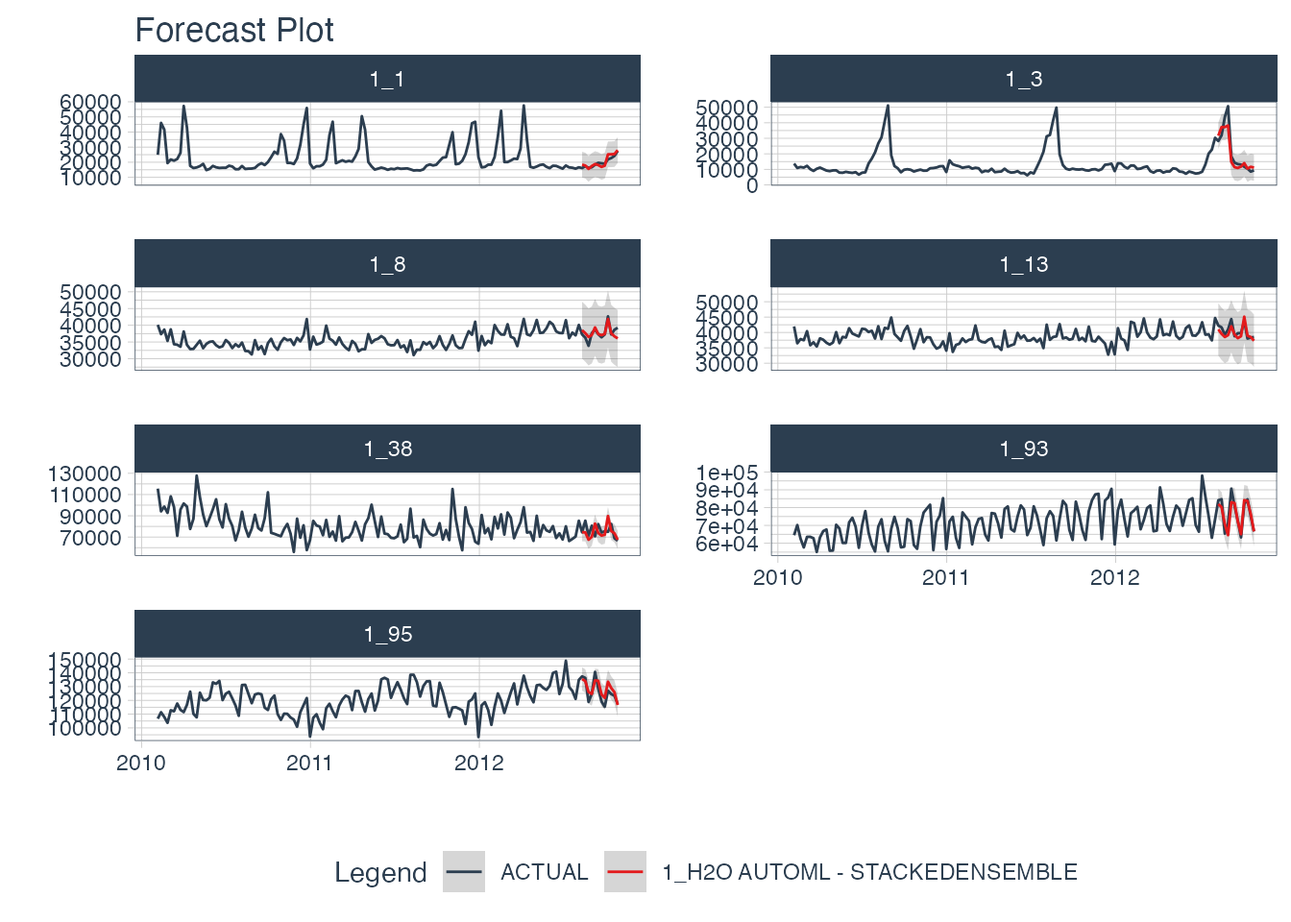
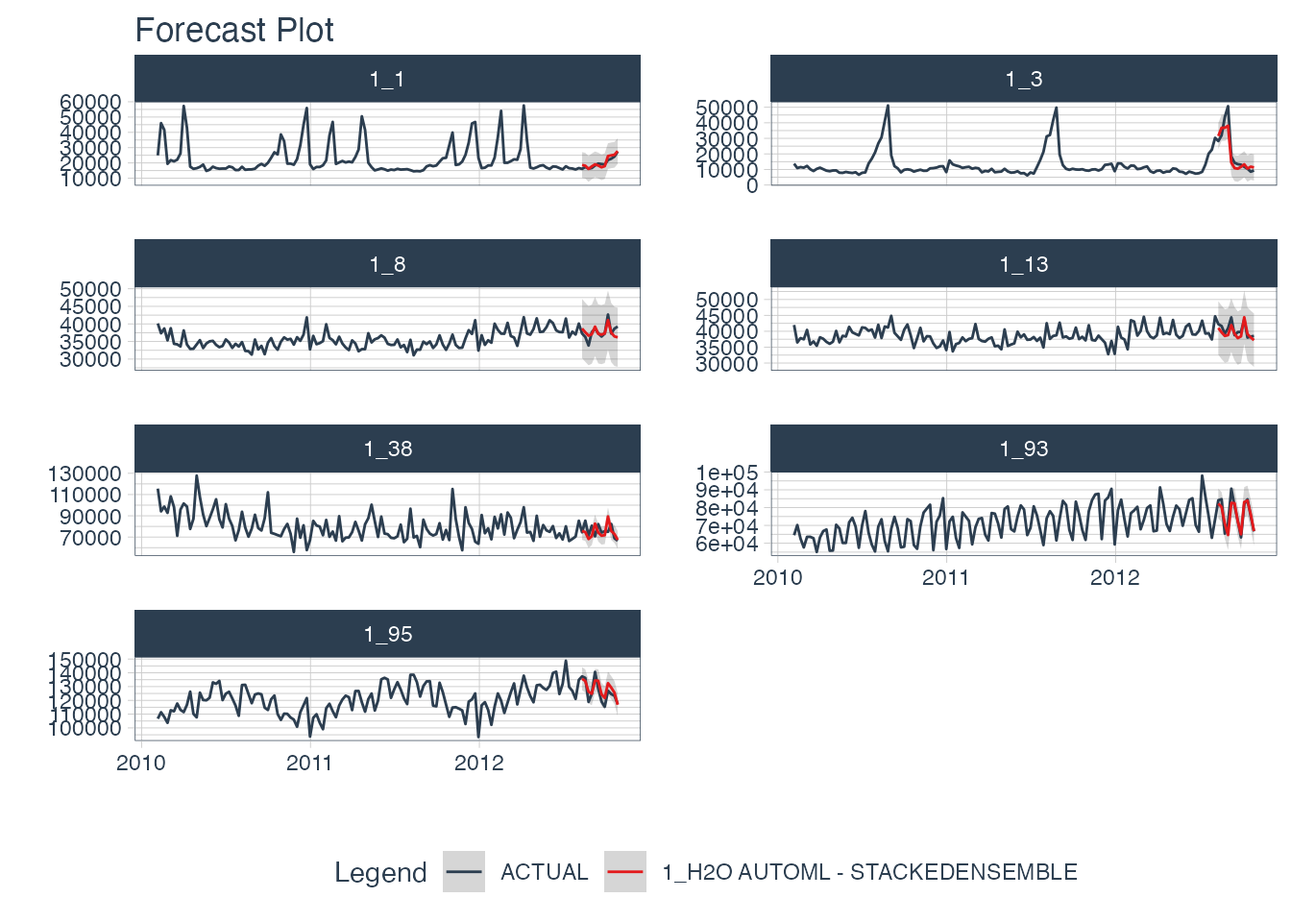
version 0.1.0 - initial release

diff --git a/docs/articles/getting-started.html b/docs/articles/getting-started.html
@@ -44,7 +44,7 @@
       </button>
       <span class="navbar-brand">
         <a class="navbar-link" href="../index.html">modeltime.h2o</a>
-        <span class="version label label-default" data-toggle="tooltip" data-placement="bottom" title="Released version">0.0.0.9000</span>
+        <span class="version label label-default" data-toggle="tooltip" data-placement="bottom" title="Released version">0.1.0</span>
       </span>
     </div>
 
@@ -166,7 +166,7 @@
 <span class="co">#&gt;  Connection successful!</span>
 <span class="co">#&gt; </span>
 <span class="co">#&gt; R is connected to the H2O cluster: </span>
-<span class="co">#&gt;     H2O cluster uptime:         10 hours 57 minutes </span>
+<span class="co">#&gt;     H2O cluster uptime:         11 hours 3 minutes </span>
 <span class="co">#&gt;     H2O cluster timezone:       America/New_York </span>
 <span class="co">#&gt;     H2O data parsing timezone:  UTC </span>
 <span class="co">#&gt;     H2O cluster version:        3.32.0.1 </span>
@@ -224,7 +224,7 @@
 <span id="cb6-11"><a href="#cb6-11" aria-hidden="true" tabindex="-1"></a>  <span class="sc">|</span>                                                                            </span>
 <span id="cb6-12"><a href="#cb6-12" aria-hidden="true" tabindex="-1"></a>  <span class="er">|==============</span>                                                        <span class="er">|</span>  <span class="dv">20</span>%</span>
 <span id="cb6-13"><a href="#cb6-13" aria-hidden="true" tabindex="-1"></a>  <span class="sc">|</span>                                                                            </span>
-<span id="cb6-14"><a href="#cb6-14" aria-hidden="true" tabindex="-1"></a>  <span class="er">|============================</span>                                          <span class="er">|</span>  <span class="dv">40</span>%</span>
+<span id="cb6-14"><a href="#cb6-14" aria-hidden="true" tabindex="-1"></a>  <span class="er">|============================</span>                                          <span class="er">|</span>  <span class="dv">41</span>%</span>
 <span id="cb6-15"><a href="#cb6-15" aria-hidden="true" tabindex="-1"></a>  <span class="sc">|</span>                                                                            </span>
 <span id="cb6-16"><a href="#cb6-16" aria-hidden="true" tabindex="-1"></a>  <span class="er">|===========================================</span>                           <span class="er">|</span>  <span class="dv">61</span>%</span>
 <span id="cb6-17"><a href="#cb6-17" aria-hidden="true" tabindex="-1"></a>  <span class="sc">|</span>                                                                            </span>
@@ -235,15 +235,15 @@
 <span id="cb6-22"><a href="#cb6-22" aria-hidden="true" tabindex="-1"></a>  <span class="sc">|</span>                                                                            </span>
 <span id="cb6-23"><a href="#cb6-23" aria-hidden="true" tabindex="-1"></a>  <span class="er">|======================================================================|</span> <span class="dv">100</span>%</span>
 <span id="cb6-24"><a href="#cb6-24" aria-hidden="true" tabindex="-1"></a><span class="co">#&gt;                                           model_id mean_residual_deviance</span></span>
-<span id="cb6-25"><a href="#cb6-25" aria-hidden="true" tabindex="-1"></a><span class="co">#&gt; 1 StackedEnsemble_AllModels_AutoML_20210312_214830               35860665</span></span>
-<span id="cb6-26"><a href="#cb6-26" aria-hidden="true" tabindex="-1"></a><span class="co">#&gt; 2                 XGBoost_3_AutoML_20210312_214830               37508890</span></span>
-<span id="cb6-27"><a href="#cb6-27" aria-hidden="true" tabindex="-1"></a><span class="co">#&gt; 3                 XGBoost_2_AutoML_20210312_214830               39132256</span></span>
-<span id="cb6-28"><a href="#cb6-28" aria-hidden="true" tabindex="-1"></a><span class="co">#&gt; 4                 XGBoost_1_AutoML_20210312_214830               40070530</span></span>
+<span id="cb6-25"><a href="#cb6-25" aria-hidden="true" tabindex="-1"></a><span class="co">#&gt; 1 StackedEnsemble_AllModels_AutoML_20210312_215441               36261803</span></span>
+<span id="cb6-26"><a href="#cb6-26" aria-hidden="true" tabindex="-1"></a><span class="co">#&gt; 2                 XGBoost_3_AutoML_20210312_215441               37999356</span></span>
+<span id="cb6-27"><a href="#cb6-27" aria-hidden="true" tabindex="-1"></a><span class="co">#&gt; 3                 XGBoost_2_AutoML_20210312_215441               39161879</span></span>
+<span id="cb6-28"><a href="#cb6-28" aria-hidden="true" tabindex="-1"></a><span class="co">#&gt; 4                 XGBoost_1_AutoML_20210312_215441               40459569</span></span>
 <span id="cb6-29"><a href="#cb6-29" aria-hidden="true" tabindex="-1"></a><span class="co">#&gt;       rmse      mse      mae     rmsle</span></span>
-<span id="cb6-30"><a href="#cb6-30" aria-hidden="true" tabindex="-1"></a><span class="co">#&gt; 1 5988.377 35860665 3661.381 0.1464513</span></span>
-<span id="cb6-31"><a href="#cb6-31" aria-hidden="true" tabindex="-1"></a><span class="co">#&gt; 2 6124.450 37508890 3738.323 0.1482414</span></span>
-<span id="cb6-32"><a href="#cb6-32" aria-hidden="true" tabindex="-1"></a><span class="co">#&gt; 3 6255.578 39132256 3974.489 0.1635590</span></span>
-<span id="cb6-33"><a href="#cb6-33" aria-hidden="true" tabindex="-1"></a><span class="co">#&gt; 4 6330.129 40070530 4150.696 0.1711788</span></span>
+<span id="cb6-30"><a href="#cb6-30" aria-hidden="true" tabindex="-1"></a><span class="co">#&gt; 1 6021.777 36261803 3674.648 0.1464836</span></span>
+<span id="cb6-31"><a href="#cb6-31" aria-hidden="true" tabindex="-1"></a><span class="co">#&gt; 2 6164.362 37999356 3765.700 0.1492987</span></span>
+<span id="cb6-32"><a href="#cb6-32" aria-hidden="true" tabindex="-1"></a><span class="co">#&gt; 3 6257.945 39161879 3971.226 0.1626469</span></span>
+<span id="cb6-33"><a href="#cb6-33" aria-hidden="true" tabindex="-1"></a><span class="co">#&gt; 4 6360.784 40459569 4170.221 0.1694005</span></span>
 <span id="cb6-34"><a href="#cb6-34" aria-hidden="true" tabindex="-1"></a><span class="co">#&gt; </span></span>
 <span id="cb6-35"><a href="#cb6-35" aria-hidden="true" tabindex="-1"></a><span class="co">#&gt; [4 rows x 6 columns]</span></span>
 <span id="cb6-36"><a href="#cb6-36" aria-hidden="true" tabindex="-1"></a></span>
@@ -258,7 +258,7 @@
 <span id="cb6-45"><a href="#cb6-45" aria-hidden="true" tabindex="-1"></a><span class="co">#&gt; ==============</span></span>
 <span id="cb6-46"><a href="#cb6-46" aria-hidden="true" tabindex="-1"></a><span class="co">#&gt; </span></span>
 <span id="cb6-47"><a href="#cb6-47" aria-hidden="true" tabindex="-1"></a><span class="co">#&gt; H2ORegressionModel: stackedensemble</span></span>
-<span id="cb6-48"><a href="#cb6-48" aria-hidden="true" tabindex="-1"></a><span class="co">#&gt; Model ID:  StackedEnsemble_AllModels_AutoML_20210312_214830 </span></span>
+<span id="cb6-48"><a href="#cb6-48" aria-hidden="true" tabindex="-1"></a><span class="co">#&gt; Model ID:  StackedEnsemble_AllModels_AutoML_20210312_215441 </span></span>
 <span id="cb6-49"><a href="#cb6-49" aria-hidden="true" tabindex="-1"></a><span class="co">#&gt; Number of Base Models: 3</span></span>
 <span id="cb6-50"><a href="#cb6-50" aria-hidden="true" tabindex="-1"></a><span class="co">#&gt; </span></span>
 <span id="cb6-51"><a href="#cb6-51" aria-hidden="true" tabindex="-1"></a><span class="co">#&gt; Base Models (count by algorithm type):</span></span>
@@ -279,11 +279,11 @@
 <span id="cb6-66"><a href="#cb6-66" aria-hidden="true" tabindex="-1"></a><span class="co">#&gt; H2ORegressionMetrics: stackedensemble</span></span>
 <span id="cb6-67"><a href="#cb6-67" aria-hidden="true" tabindex="-1"></a><span class="co">#&gt; ** Reported on training data. **</span></span>
 <span id="cb6-68"><a href="#cb6-68" aria-hidden="true" tabindex="-1"></a><span class="co">#&gt; </span></span>
-<span id="cb6-69"><a href="#cb6-69" aria-hidden="true" tabindex="-1"></a><span class="co">#&gt; MSE:  10594894</span></span>
-<span id="cb6-70"><a href="#cb6-70" aria-hidden="true" tabindex="-1"></a><span class="co">#&gt; RMSE:  3254.98</span></span>
-<span id="cb6-71"><a href="#cb6-71" aria-hidden="true" tabindex="-1"></a><span class="co">#&gt; MAE:  2098.352</span></span>
-<span id="cb6-72"><a href="#cb6-72" aria-hidden="true" tabindex="-1"></a><span class="co">#&gt; RMSLE:  0.07938007</span></span>
-<span id="cb6-73"><a href="#cb6-73" aria-hidden="true" tabindex="-1"></a><span class="co">#&gt; Mean Residual Deviance :  10594894</span></span>
+<span id="cb6-69"><a href="#cb6-69" aria-hidden="true" tabindex="-1"></a><span class="co">#&gt; MSE:  11735662</span></span>
+<span id="cb6-70"><a href="#cb6-70" aria-hidden="true" tabindex="-1"></a><span class="co">#&gt; RMSE:  3425.735</span></span>
+<span id="cb6-71"><a href="#cb6-71" aria-hidden="true" tabindex="-1"></a><span class="co">#&gt; MAE:  2172.112</span></span>
+<span id="cb6-72"><a href="#cb6-72" aria-hidden="true" tabindex="-1"></a><span class="co">#&gt; RMSLE:  0.07982976</span></span>
+<span id="cb6-73"><a href="#cb6-73" aria-hidden="true" tabindex="-1"></a><span class="co">#&gt; Mean Residual Deviance :  11735662</span></span>
 <span id="cb6-74"><a href="#cb6-74" aria-hidden="true" tabindex="-1"></a><span class="co">#&gt; </span></span>
 <span id="cb6-75"><a href="#cb6-75" aria-hidden="true" tabindex="-1"></a><span class="co">#&gt; </span></span>
 <span id="cb6-76"><a href="#cb6-76" aria-hidden="true" tabindex="-1"></a><span class="co">#&gt; </span></span>
@@ -291,11 +291,11 @@
 <span id="cb6-78"><a href="#cb6-78" aria-hidden="true" tabindex="-1"></a><span class="co">#&gt; ** Reported on cross-validation data. **</span></span>
 <span id="cb6-79"><a href="#cb6-79" aria-hidden="true" tabindex="-1"></a><span class="co">#&gt; ** 5-fold cross-validation on training data (Metrics computed for combined holdout predictions) **</span></span>
 <span id="cb6-80"><a href="#cb6-80" aria-hidden="true" tabindex="-1"></a><span class="co">#&gt; </span></span>
-<span id="cb6-81"><a href="#cb6-81" aria-hidden="true" tabindex="-1"></a><span class="co">#&gt; MSE:  35860665</span></span>
-<span id="cb6-82"><a href="#cb6-82" aria-hidden="true" tabindex="-1"></a><span class="co">#&gt; RMSE:  5988.377</span></span>
-<span id="cb6-83"><a href="#cb6-83" aria-hidden="true" tabindex="-1"></a><span class="co">#&gt; MAE:  3661.381</span></span>
-<span id="cb6-84"><a href="#cb6-84" aria-hidden="true" tabindex="-1"></a><span class="co">#&gt; RMSLE:  0.1464513</span></span>
-<span id="cb6-85"><a href="#cb6-85" aria-hidden="true" tabindex="-1"></a><span class="co">#&gt; Mean Residual Deviance :  35860665</span></span></code></pre></div>
+<span id="cb6-81"><a href="#cb6-81" aria-hidden="true" tabindex="-1"></a><span class="co">#&gt; MSE:  36261803</span></span>
+<span id="cb6-82"><a href="#cb6-82" aria-hidden="true" tabindex="-1"></a><span class="co">#&gt; RMSE:  6021.777</span></span>
+<span id="cb6-83"><a href="#cb6-83" aria-hidden="true" tabindex="-1"></a><span class="co">#&gt; MAE:  3674.648</span></span>
+<span id="cb6-84"><a href="#cb6-84" aria-hidden="true" tabindex="-1"></a><span class="co">#&gt; RMSLE:  0.1464836</span></span>
+<span id="cb6-85"><a href="#cb6-85" aria-hidden="true" tabindex="-1"></a><span class="co">#&gt; Mean Residual Deviance :  36261803</span></span></code></pre></div>
 <p>Finally, we predict on the test dataset:</p>
 <div class="sourceCode" id="cb7"><pre class="sourceCode r"><code class="sourceCode r"><span id="cb7-1"><a href="#cb7-1" aria-hidden="true" tabindex="-1"></a><span class="fu">predict</span>(model_fitted, test_tbl)</span>
 <span id="cb7-2"><a href="#cb7-2" aria-hidden="true" tabindex="-1"></a><span class="co">#&gt; </span></span>
@@ -311,16 +311,16 @@
 <span id="cb7-12"><a href="#cb7-12" aria-hidden="true" tabindex="-1"></a><span class="co">#&gt; # A tibble: 84 x 1</span></span>
 <span id="cb7-13"><a href="#cb7-13" aria-hidden="true" tabindex="-1"></a><span class="co">#&gt;      .pred</span></span>
 <span id="cb7-14"><a href="#cb7-14" aria-hidden="true" tabindex="-1"></a><span class="co">#&gt;      &lt;dbl&gt;</span></span>
-<span id="cb7-15"><a href="#cb7-15" aria-hidden="true" tabindex="-1"></a><span class="co">#&gt;  1  18395.</span></span>
-<span id="cb7-16"><a href="#cb7-16" aria-hidden="true" tabindex="-1"></a><span class="co">#&gt;  2  31670.</span></span>
-<span id="cb7-17"><a href="#cb7-17" aria-hidden="true" tabindex="-1"></a><span class="co">#&gt;  3  38529.</span></span>
-<span id="cb7-18"><a href="#cb7-18" aria-hidden="true" tabindex="-1"></a><span class="co">#&gt;  4  40995.</span></span>
-<span id="cb7-19"><a href="#cb7-19" aria-hidden="true" tabindex="-1"></a><span class="co">#&gt;  5  74527.</span></span>
-<span id="cb7-20"><a href="#cb7-20" aria-hidden="true" tabindex="-1"></a><span class="co">#&gt;  6  81982.</span></span>
-<span id="cb7-21"><a href="#cb7-21" aria-hidden="true" tabindex="-1"></a><span class="co">#&gt;  7 135503.</span></span>
-<span id="cb7-22"><a href="#cb7-22" aria-hidden="true" tabindex="-1"></a><span class="co">#&gt;  8  17799.</span></span>
-<span id="cb7-23"><a href="#cb7-23" aria-hidden="true" tabindex="-1"></a><span class="co">#&gt;  9  37233.</span></span>
-<span id="cb7-24"><a href="#cb7-24" aria-hidden="true" tabindex="-1"></a><span class="co">#&gt; 10  37629.</span></span>
+<span id="cb7-15"><a href="#cb7-15" aria-hidden="true" tabindex="-1"></a><span class="co">#&gt;  1  18640.</span></span>
+<span id="cb7-16"><a href="#cb7-16" aria-hidden="true" tabindex="-1"></a><span class="co">#&gt;  2  31495.</span></span>
+<span id="cb7-17"><a href="#cb7-17" aria-hidden="true" tabindex="-1"></a><span class="co">#&gt;  3  38683.</span></span>
+<span id="cb7-18"><a href="#cb7-18" aria-hidden="true" tabindex="-1"></a><span class="co">#&gt;  4  41031.</span></span>
+<span id="cb7-19"><a href="#cb7-19" aria-hidden="true" tabindex="-1"></a><span class="co">#&gt;  5  75759.</span></span>
+<span id="cb7-20"><a href="#cb7-20" aria-hidden="true" tabindex="-1"></a><span class="co">#&gt;  6  82278.</span></span>
+<span id="cb7-21"><a href="#cb7-21" aria-hidden="true" tabindex="-1"></a><span class="co">#&gt;  7 135719.</span></span>
+<span id="cb7-22"><a href="#cb7-22" aria-hidden="true" tabindex="-1"></a><span class="co">#&gt;  8  18179.</span></span>
+<span id="cb7-23"><a href="#cb7-23" aria-hidden="true" tabindex="-1"></a><span class="co">#&gt;  9  36781.</span></span>
+<span id="cb7-24"><a href="#cb7-24" aria-hidden="true" tabindex="-1"></a><span class="co">#&gt; 10  37612.</span></span>
 <span id="cb7-25"><a href="#cb7-25" aria-hidden="true" tabindex="-1"></a><span class="co">#&gt; # … with 74 more rows</span></span></code></pre></div>
 </div>
 <div id="modeltime-workflow" class="section level2">
@@ -426,15 +426,15 @@
 <span id="cb11-22"><a href="#cb11-22" aria-hidden="true" tabindex="-1"></a>  <span class="sc">|</span>                                                                            </span>
 <span id="cb11-23"><a href="#cb11-23" aria-hidden="true" tabindex="-1"></a>  <span class="er">|======================================================================|</span> <span class="dv">100</span>%</span>
 <span id="cb11-24"><a href="#cb11-24" aria-hidden="true" tabindex="-1"></a><span class="co">#&gt;                                           model_id mean_residual_deviance</span></span>
-<span id="cb11-25"><a href="#cb11-25" aria-hidden="true" tabindex="-1"></a><span class="co">#&gt; 1 StackedEnsemble_AllModels_AutoML_20210312_214841               33850527</span></span>
-<span id="cb11-26"><a href="#cb11-26" aria-hidden="true" tabindex="-1"></a><span class="co">#&gt; 2                 XGBoost_3_AutoML_20210312_214841               35943849</span></span>
-<span id="cb11-27"><a href="#cb11-27" aria-hidden="true" tabindex="-1"></a><span class="co">#&gt; 3                 XGBoost_2_AutoML_20210312_214841               37489230</span></span>
-<span id="cb11-28"><a href="#cb11-28" aria-hidden="true" tabindex="-1"></a><span class="co">#&gt; 4                 XGBoost_1_AutoML_20210312_214841               39109367</span></span>
+<span id="cb11-25"><a href="#cb11-25" aria-hidden="true" tabindex="-1"></a><span class="co">#&gt; 1 StackedEnsemble_AllModels_AutoML_20210312_215452               33803392</span></span>
+<span id="cb11-26"><a href="#cb11-26" aria-hidden="true" tabindex="-1"></a><span class="co">#&gt; 2                 XGBoost_3_AutoML_20210312_215452               36118265</span></span>
+<span id="cb11-27"><a href="#cb11-27" aria-hidden="true" tabindex="-1"></a><span class="co">#&gt; 3                 XGBoost_2_AutoML_20210312_215452               37619519</span></span>
+<span id="cb11-28"><a href="#cb11-28" aria-hidden="true" tabindex="-1"></a><span class="co">#&gt; 4                 XGBoost_1_AutoML_20210312_215452               38138997</span></span>
 <span id="cb11-29"><a href="#cb11-29" aria-hidden="true" tabindex="-1"></a><span class="co">#&gt;       rmse      mse      mae     rmsle</span></span>
-<span id="cb11-30"><a href="#cb11-30" aria-hidden="true" tabindex="-1"></a><span class="co">#&gt; 1 5818.121 33850527 3542.256 0.1416127</span></span>
-<span id="cb11-31"><a href="#cb11-31" aria-hidden="true" tabindex="-1"></a><span class="co">#&gt; 2 5995.319 35943849 3651.676 0.1448422</span></span>
-<span id="cb11-32"><a href="#cb11-32" aria-hidden="true" tabindex="-1"></a><span class="co">#&gt; 3 6122.845 37489230 3921.208 0.1651310</span></span>
-<span id="cb11-33"><a href="#cb11-33" aria-hidden="true" tabindex="-1"></a><span class="co">#&gt; 4 6253.748 39109367 4195.613 0.1814381</span></span>
+<span id="cb11-30"><a href="#cb11-30" aria-hidden="true" tabindex="-1"></a><span class="co">#&gt; 1 5814.068 33803392 3547.919 0.1421980</span></span>
+<span id="cb11-31"><a href="#cb11-31" aria-hidden="true" tabindex="-1"></a><span class="co">#&gt; 2 6009.847 36118265 3658.129 0.1452456</span></span>
+<span id="cb11-32"><a href="#cb11-32" aria-hidden="true" tabindex="-1"></a><span class="co">#&gt; 3 6133.475 37619519 3933.949 0.1644382</span></span>
+<span id="cb11-33"><a href="#cb11-33" aria-hidden="true" tabindex="-1"></a><span class="co">#&gt; 4 6175.678 38138997 4125.908 0.1803572</span></span>
 <span id="cb11-34"><a href="#cb11-34" aria-hidden="true" tabindex="-1"></a><span class="co">#&gt; </span></span>
 <span id="cb11-35"><a href="#cb11-35" aria-hidden="true" tabindex="-1"></a><span class="co">#&gt; [4 rows x 6 columns]</span></span>
 <span id="cb11-36"><a href="#cb11-36" aria-hidden="true" tabindex="-1"></a></span>

diff --git a/docs/index.html b/docs/index.html
@@ -5,7 +5,7 @@
 <meta charset="utf-8">
 <meta http-equiv="X-UA-Compatible" content="IE=edge">
 <meta name="viewport" content="width=device-width, initial-scale=1.0">
-<title>Modeltime H2O Machine Learning Backend • modeltime.h2o</title>
+<title>Modeltime H2O Machine Learning • modeltime.h2o</title>
 <!-- favicons --><link rel="icon" type="image/png" sizes="16x16" href="favicon-16x16.png">
 <link rel="icon" type="image/png" sizes="32x32" href="favicon-32x32.png">
 <link rel="apple-touch-icon" type="image/png" sizes="180x180" href="apple-touch-icon.png">
@@ -17,7 +17,7 @@
 <script src="bootstrap-toc.js"></script><!-- Font Awesome icons --><link rel="stylesheet" href="https://cdnjs.cloudflare.com/ajax/libs/font-awesome/5.12.1/css/all.min.css" integrity="sha256-mmgLkCYLUQbXn0B1SRqzHar6dCnv9oZFPEC1g1cwlkk=" crossorigin="anonymous">
 <link rel="stylesheet" href="https://cdnjs.cloudflare.com/ajax/libs/font-awesome/5.12.1/css/v4-shims.min.css" integrity="sha256-wZjR52fzng1pJHwx4aV2AO3yyTOXrcDW7jBpJtTwVxw=" crossorigin="anonymous">
 <!-- clipboard.js --><script src="https://cdnjs.cloudflare.com/ajax/libs/clipboard.js/2.0.6/clipboard.min.js" integrity="sha256-inc5kl9MA1hkeYUt+EC3BhlIgyp/2jDIyBLS6k3UxPI=" crossorigin="anonymous"></script><!-- headroom.js --><script src="https://cdnjs.cloudflare.com/ajax/libs/headroom/0.11.0/headroom.min.js" integrity="sha256-AsUX4SJE1+yuDu5+mAVzJbuYNPHj/WroHuZ8Ir/CkE0=" crossorigin="anonymous"></script><script src="https://cdnjs.cloudflare.com/ajax/libs/headroom/0.11.0/jQuery.headroom.min.js" integrity="sha256-ZX/yNShbjqsohH1k95liqY9Gd8uOiE1S4vZc+9KQ1K4=" crossorigin="anonymous"></script><!-- pkgdown --><link href="pkgdown.css" rel="stylesheet">
-<script src="pkgdown.js"></script><meta property="og:title" content="Modeltime H2O Machine Learning Backend">
+<script src="pkgdown.js"></script><meta property="og:title" content="Modeltime H2O Machine Learning">
 <meta property="og:description" content="
     Use the H2O machine learning library inside of modeltime.
     Available models include AutoML for Automatic Machine Learning. 
@@ -47,7 +47,7 @@
       </button>
       <span class="navbar-brand">
         <a class="navbar-link" href="index.html">modeltime.h2o</a>
-        <span class="version label label-default" data-toggle="tooltip" data-placement="bottom" title="Released version">0.0.0.9000</span>
+        <span class="version label label-default" data-toggle="tooltip" data-placement="bottom" title="Released version">0.1.0</span>
       </span>
     </div>
 

diff --git a/docs/news/index.html b/docs/news/index.html
@@ -89,7 +89,7 @@
       </button>
       <span class="navbar-brand">
         <a class="navbar-link" href="../index.html">modeltime.h2o</a>
-        <span class="version label label-default" data-toggle="tooltip" data-placement="bottom" title="Released version">0.0.0.9000</span>
+        <span class="version label label-default" data-toggle="tooltip" data-placement="bottom" title="Released version">0.1.0</span>
       </span>
     </div>
 
@@ -148,17 +148,18 @@
       <small>Source: <a href='https://github.com/business-science/modeltime.h2o/blob/master/NEWS.md'><code>NEWS.md</code></a></small>
     </div>
 
-    <div id="modeltimeh2o-0009000" class="section level1">
-<h1 class="page-header" data-toc-text="0.0.0.9000">
-<a href="#modeltimeh2o-0009000" class="anchor"></a>modeltime.h2o 0.0.0.9000</h1>
-<div id="new-algorithm" class="section level2">
-<h2 class="hasAnchor">
-<a href="#new-algorithm" class="anchor"></a>New Algorithm</h2>
+    <div id="modeltimeh2o-010" class="section level1">
+<h1 class="page-header" data-toc-text="0.1.0">
+<a href="#modeltimeh2o-010" class="anchor"></a>modeltime.h2o 0.1.0</h1>
+<p>This is the initial release with key functions:</p>
 <ul>
 <li>
-<code><a href="../reference/automl_reg.html">automl_reg()</a></code>: Uses H2O AutoML as a backend for forecasting.</li>
+<code><a href="../reference/automl_reg.html">automl_reg()</a></code>: Uses H2O AutoML as a backend for forecasting.<br>
+</li>
+<li>
+<code><a href="../reference/save_h2o_model.html">save_h2o_model()</a></code> and <code><a href="../reference/save_h2o_model.html">load_h2o_model()</a></code>
+</li>
 </ul>
-</div>
 </div>
   </div>
 

diff --git a/docs/reference/automl_reg.html b/docs/reference/automl_reg.html
@@ -92,7 +92,7 @@ different packages. Currently the only package is h2o." />
       </button>
       <span class="navbar-brand">
         <a class="navbar-link" href="../index.html">modeltime.h2o</a>
-        <span class="version label label-default" data-toggle="tooltip" data-placement="bottom" title="Released version">0.0.0.9000</span>
+        <span class="version label label-default" data-toggle="tooltip" data-placement="bottom" title="Released version">0.1.0</span>
       </span>
     </div>
 

diff --git a/docs/reference/tidyeval.html b/docs/reference/tidyeval.html
@@ -122,7 +122,7 @@ section of Advanced R." />
       </button>
       <span class="navbar-brand">
         <a class="navbar-link" href="../index.html">modeltime.h2o</a>
-        <span class="version label label-default" data-toggle="tooltip" data-placement="bottom" title="Released version">0.0.0.9000</span>
+        <span class="version label label-default" data-toggle="tooltip" data-placement="bottom" title="Released version">0.1.0</span>
       </span>
     </div>
 

diff --git a/docs/reference/save_h2o_model.html b/docs/reference/save_h2o_model.html
@@ -92,7 +92,7 @@ defines." />
       </button>
       <span class="navbar-brand">
         <a class="navbar-link" href="../index.html">modeltime.h2o</a>
-        <span class="version label label-default" data-toggle="tooltip" data-placement="bottom" title="Released version">0.0.0.9000</span>
+        <span class="version label label-default" data-toggle="tooltip" data-placement="bottom" title="Released version">0.1.0</span>
       </span>
     </div>
 

diff --git a/docs/articles/index.html b/docs/articles/index.html
@@ -89,7 +89,7 @@
       </button>
       <span class="navbar-brand">
         <a class="navbar-link" href="../index.html">modeltime.h2o</a>
-        <span class="version label label-default" data-toggle="tooltip" data-placement="bottom" title="Released version">0.0.0.9000</span>
+        <span class="version label label-default" data-toggle="tooltip" data-placement="bottom" title="Released version">0.1.0</span>
       </span>
     </div>
 

diff --git a/docs/reference/automl_fit_impl.html b/docs/reference/automl_fit_impl.html
@@ -90,7 +90,7 @@
       </button>
       <span class="navbar-brand">
         <a class="navbar-link" href="../index.html">modeltime.h2o</a>
-        <span class="version label label-default" data-toggle="tooltip" data-placement="bottom" title="Released version">0.0.0.9000</span>
+        <span class="version label label-default" data-toggle="tooltip" data-placement="bottom" title="Released version">0.1.0</span>
       </span>
     </div>
 

diff --git a/docs/reference/automl_predict_impl.html b/docs/reference/automl_predict_impl.html
@@ -90,7 +90,7 @@
       </button>
       <span class="navbar-brand">
         <a class="navbar-link" href="../index.html">modeltime.h2o</a>
-        <span class="version label label-default" data-toggle="tooltip" data-placement="bottom" title="Released version">0.0.0.9000</span>
+        <span class="version label label-default" data-toggle="tooltip" data-placement="bottom" title="Released version">0.1.0</span>
       </span>
     </div>
 

diff --git a/docs/reference/index.html b/docs/reference/index.html
@@ -89,7 +89,7 @@
       </button>
       <span class="navbar-brand">
         <a class="navbar-link" href="../index.html">modeltime.h2o</a>
-        <span class="version label label-default" data-toggle="tooltip" data-placement="bottom" title="Released version">0.0.0.9000</span>
+        <span class="version label label-default" data-toggle="tooltip" data-placement="bottom" title="Released version">0.1.0</span>
       </span>
     </div>
 

diff --git a/docs/reference/pipe.html b/docs/reference/pipe.html
@@ -90,7 +90,7 @@
       </button>
       <span class="navbar-brand">
         <a class="navbar-link" href="../index.html">modeltime.h2o</a>
-        <span class="version label label-default" data-toggle="tooltip" data-placement="bottom" title="Released version">0.0.0.9000</span>
+        <span class="version label label-default" data-toggle="tooltip" data-placement="bottom" title="Released version">0.1.0</span>
       </span>
     </div>
 

diff --git a/docs/404.html b/docs/404.html
@@ -89,7 +89,7 @@
       </button>
       <span class="navbar-brand">
         <a class="navbar-link" href="index.html">modeltime.h2o</a>
-        <span class="version label label-default" data-toggle="tooltip" data-placement="bottom" title="Released version">0.0.0.9000</span>
+        <span class="version label label-default" data-toggle="tooltip" data-placement="bottom" title="Released version">0.1.0</span>
       </span>
     </div>
 
